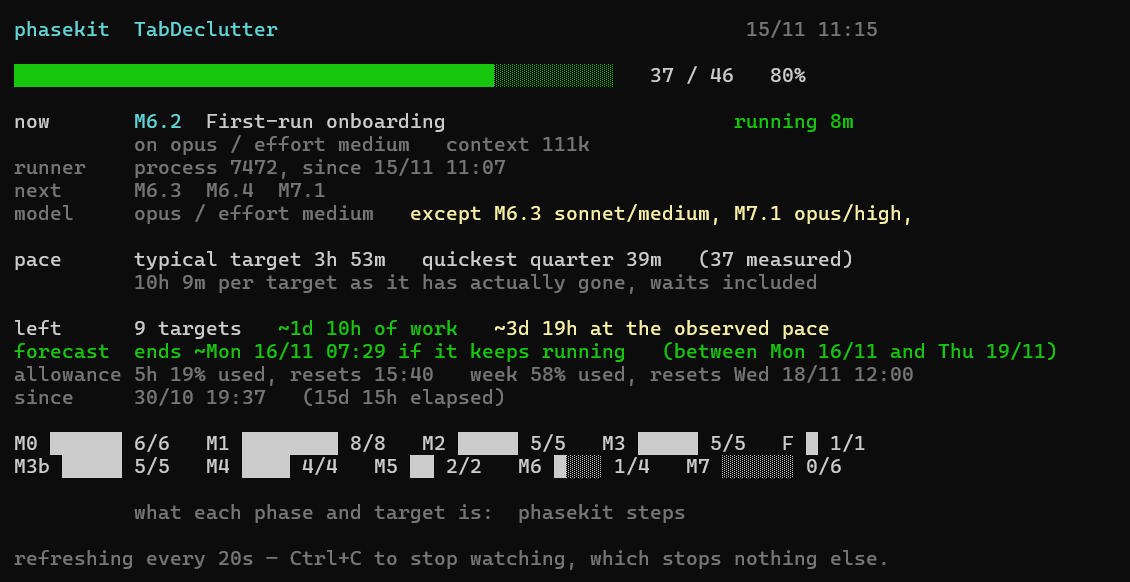
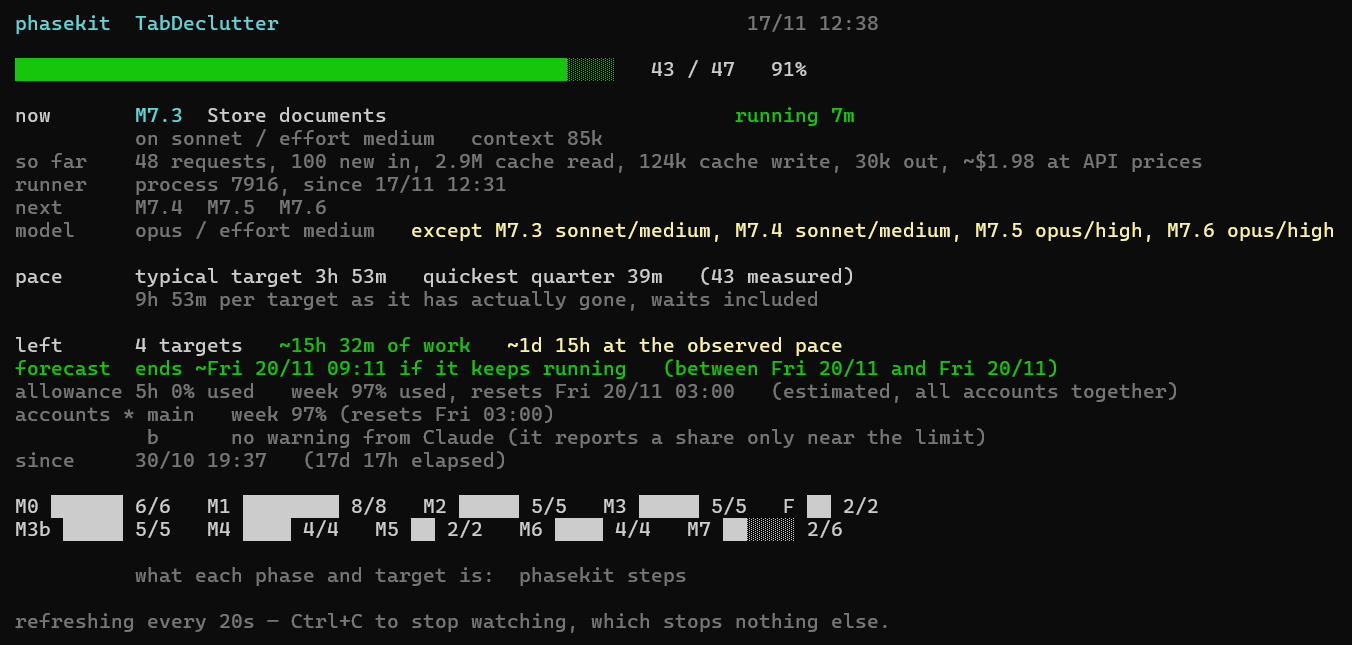
docs(readme): a dashboard screenshot with the usage lines

diff --git a/README.md b/README.md
@@ -14,7 +14,7 @@ Claude Code or Gemini's and others through Google Antigravity.
 It exists because "let the agent go and see what happens" produces a diff nobody can read
 and a repository nobody can revert. The unit of trust here is the commit, not the session.
 
-![phasekit dashboard: progress bar, the target running and its model, pace, the forecast end and the usage allowance](docs/images/dashboard.png)
+![phasekit dashboard: progress bar, the target running, its model and the tokens it has used so far, pace, the forecast end, the estimated allowance and what Claude reports for each account](docs/images/dashboard.png)
 
 *`phasekit dashboard -Watch` during a real run: 37 of 46 targets done, the forecast end and
 the usage allowance it is planned against. `phasekit logs -Follow` shows, line by line, what
